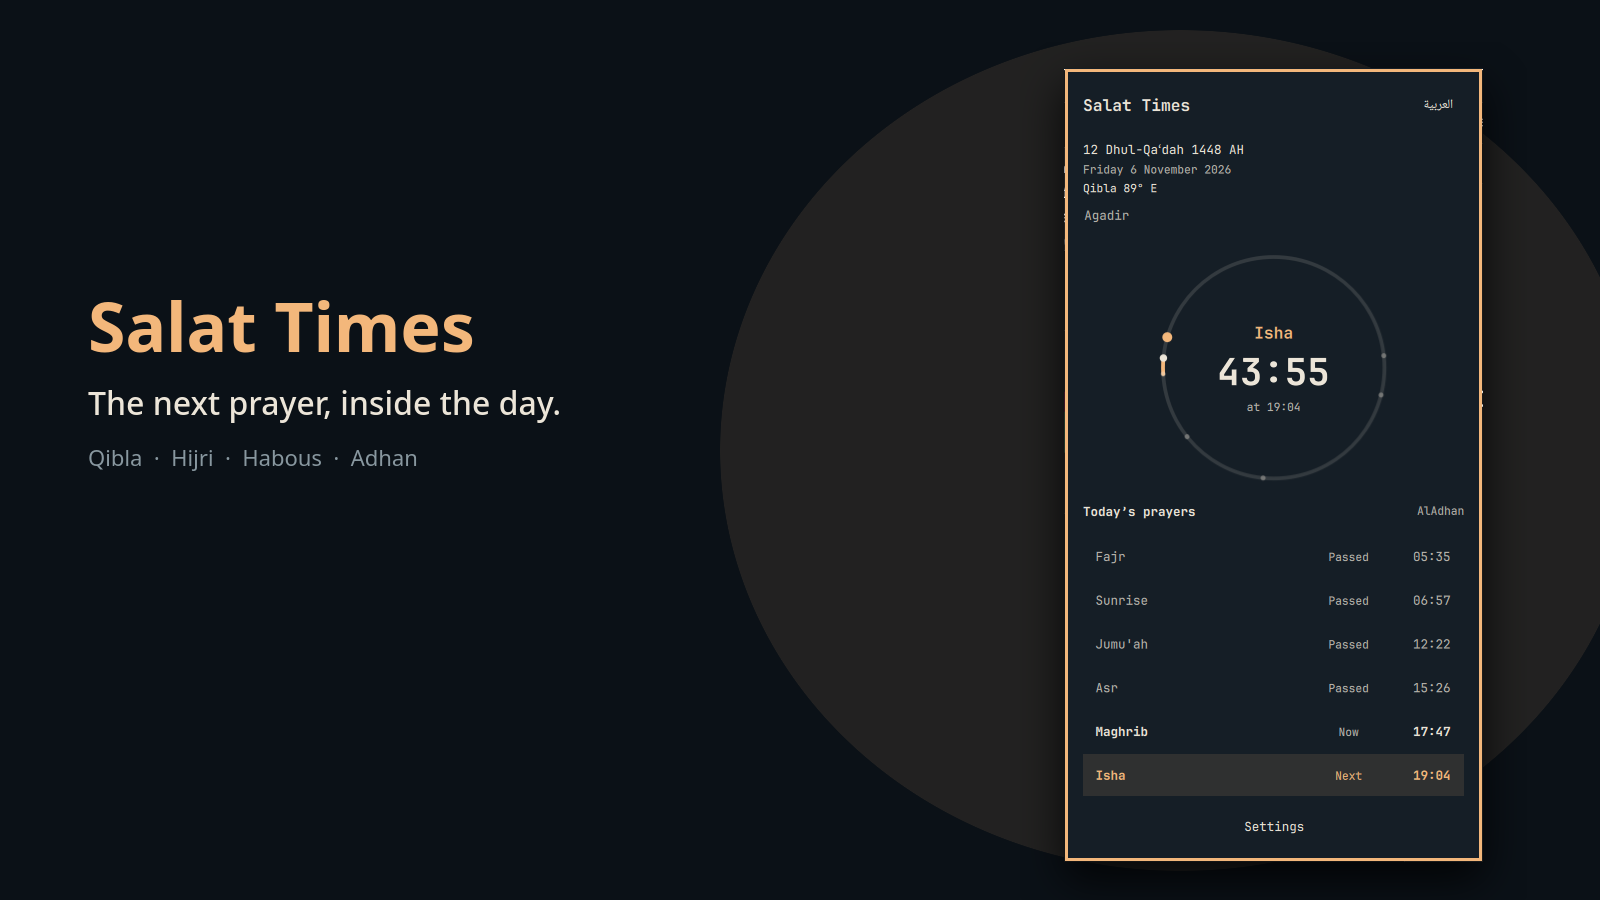
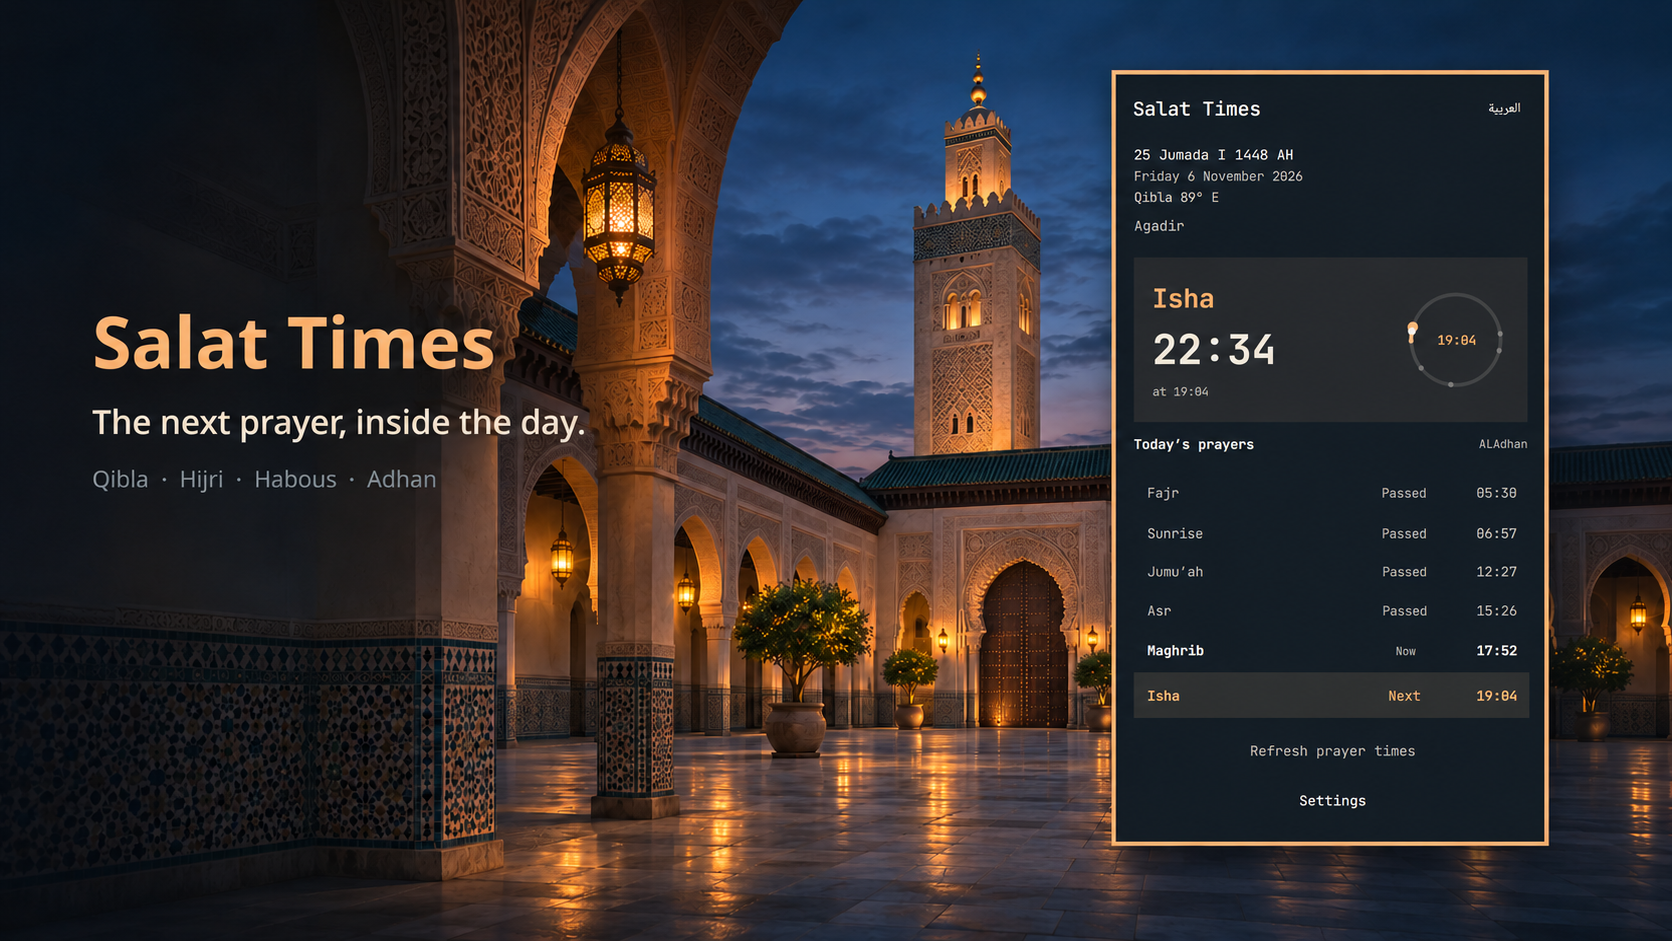
Refresh mosque marketplace artwork and bilingual desktop captures

diff --git a/DESIGN.md b/DESIGN.md
@@ -5,12 +5,17 @@ colors:
   foreground: "bar ? bar.foreground : Color.foreground"
   accent: "Color.accent"
   muted: "Qt.rgba(root.contentForeground.r, root.contentForeground.g, root.contentForeground.b, 0.76)"
+  hero-surface: "Qt.rgba(root.accent.r, root.accent.g, root.accent.b, 0.09)"
   next-surface: "Qt.rgba(root.accent.r, root.accent.g, root.accent.b, 0.12)"
 typography:
   display:
     fontFamily: "bar ? bar.fontFamily : Style.font.family"
-    fontSize: "Style.space(42)"
+    fontSize: "Style.space(38)"
     fontWeight: "Font.DemiBold"
+  prayer-name:
+    fontFamily: "bar ? bar.fontFamily : Style.font.family"
+    fontSize: "Style.space(24)"
+    fontWeight: "Font.Bold"
   heading:
     fontFamily: "bar ? bar.fontFamily : Style.font.family"
     fontSize: "Style.font.heading"
@@ -34,21 +39,26 @@ spacing:
   row: "Style.space(10)"
   section: "Style.space(12)"
   stack: "Style.space(14)"
-  hero-gap: "Style.space(20)"
+  inset: "Style.space(16)"
 components:
+  next-prayer-surface:
+    backgroundColor: "{colors.hero-surface}"
+    rounded: "{rounded.row}"
+    height: "Style.space(154)"
+    padding: "Style.space(16)"
   prayer-row:
     textColor: "{colors.foreground}"
     rounded: "{rounded.row}"
-    height: "Style.space(40)"
+    height: "Style.space(44)"
     padding: "0 Style.space(12)"
   prayer-row-next:
     backgroundColor: "{colors.next-surface}"
     textColor: "{colors.accent}"
     rounded: "{rounded.row}"
-    height: "Style.space(40)"
+    height: "Style.space(44)"
     padding: "0 Style.space(12)"
   day-dial:
-    size: "Style.space(232)"
+    size: "Style.space(104)"
   stepper-value:
     width: "Style.space(36)"
     height: "Style.space(22)"
@@ -58,9 +68,9 @@ components:
 
 ## Overview
 
-**Creative North Star: "The countdown inside the day"**
+**Creative North Star: "The daily prayer instrument"**
 
-A compact native prayer timetable that belongs to the current Omarchy desktop. The remaining time is inscribed in the day ring, and that ring’s arc is only the current prayer window. The theme supplies the font, foreground, surface, and accent.
+A compact native prayer timetable that belongs to the current Omarchy desktop. The next prayer and explicit time remaining lead inside a tonal rectangle; a small adjacent day ring provides context. Its arc represents the current prayer window. The theme supplies the font, foreground, surface, and accent.
 
 **Key Characteristics:**
 
@@ -74,7 +84,7 @@ These tokens are native QML expressions, evaluated by Omarchy/Quickshell. They a
 
 ### Primary
 
-The live accent marks the next prayer name, next row, elapsed day arc, and next dial point. The next-row fill is a translucent accent wash.
+The live accent marks the next prayer name, next row, elapsed day arc, and next dial point. The next-prayer surface uses a quiet accent wash; the timetable’s next row uses a stronger wash that intensifies when prayer is imminent.
 
 ### Neutral
 
@@ -84,7 +94,7 @@ Foreground follows the hosting bar with the Commons fallback. Muted foreground i
 
 ## Typography
 
-Use the hosting bar’s font family with `Style.font.family` as fallback. The countdown uses the display role, horizontally fits, and may shrink to `Style.space(28)`. Heading is bold; the next timetable row and dial time are bold. Standard body weights remain native defaults. Arabic body and small text have the documented minimum sizes; captions retain `Style.font.caption`.
+Use the hosting bar’s font family with `Style.font.family` as fallback. The countdown uses the display role, horizontally fits, and may shrink to `Style.space(22)`. The prayer name, heading, current and next timetable rows, and dial time are bold. The explicit “Time remaining” caption explains the countdown; exact start time sits beneath it. Standard body weights remain native defaults. Arabic body and small text have the documented minimum sizes; captions retain `Style.font.caption`.
 
 `PlainLabel` explicitly uses `Text.PlainText` and disables mirroring. Apply reading alignment to language-bearing labels; preserve unmirrored countdown, dial time, and right-aligned timetable numerals. No custom line height, tracking, or tabular-number feature is defined.
 
@@ -92,7 +102,7 @@ Use the hosting bar’s font family with `Style.font.family` as fallback. The co
 
 `KeyboardPanel` fits a preferred content width of `Style.space(400)` and fits height to the available screen. The column uses stack spacing; overview uses the same rhythm. Header and settings sections use section spacing. Vertical scrolling appears only when content overflows; horizontal scrolling is disabled.
 
-The hero is a centered day ring of `Style.space(232)`. The prayer name, countdown, and exact start sit in the hole. Schedule rows use tight spacing, horizontal section padding, row gaps, a `Style.space(64)` state column, and a fixed `Style.space(56)` time column. Names elide before times. Qibla sits with the date. A Ramadan suhoor or iftar line appears only in that month. Settings replace the overview and retain the header and settings action; they are not a second dashboard.
+The next-prayer surface is a `Style.space(154)` high rounded rectangle. A row with inset spacing places the prayer name, countdown, “Time remaining” caption, and exact start beside a `Style.space(104)` day dial. The hero row deliberately disables mirroring; the dial center shows the exact start. Schedule rows use tight spacing, horizontal section padding, row gaps, a `Style.space(64)` state column, and a fixed `Style.space(56)` time column. Names elide before times. Qibla sits with the date. A Ramadan suhoor or iftar line appears only in that month. A full-width refresh action follows the timetable and any refresh error; its label reports fetching and it is disabled offline or while fetching. Settings replace the overview and retain the header and settings action. Settings use worldwide city search with searching, no-match and connection feedback; a Hijri calendar stepper permits ±2 days. Persistent latitude and longitude labels sit over equal-width unmirrored fields, followed by a validated Apply coordinates action that works offline and a desktop-timezone note.
 
 ## Elevation & Depth
 
@@ -104,7 +114,8 @@ Timetable highlights follow `Style.cornerRadius`. The day dial is a true circle:
 
 ## Components
 
-- **Prayer rows:** six aligned timetable entries; next is identified by accent, bold name/time, tonal fill, and a localized “Next” label. The source label remains visible beside the schedule heading.
+- **Prayer rows:** six aligned timetable entries; current and next use bold name/time; next additionally uses accent and tonal fill. A fixed state column shows the model’s localized status label. Passed rows use muted text. The next fill changes from alpha 0.12 to 0.22 when imminent. The source label remains visible beside the schedule heading.
+- **Next-prayer surface:** flat accent wash, native rounded corners, large countdown with horizontal fit and explicit caption. It carries the primary answer without waiting for motion.
 - **DayDial:** actual 24-hour positions, clockwise from midnight at the top. Center shows the next start time; elapsed arc follows the current prayer window. Repaint only on data, size, or theme changes; no animation timer.
 - **Native controls:** language and settings use `Ui.Button`; settings reuse `Toggle`, `SearchableDropdown`, `Dropdown`, `ButtonGroup`, `TextField`, and `PanelSectionHeader` from `qs.Ui`. Preserve shared interaction styling and focus behavior. Opening settings focuses its first toggle; closing restores panel keyboard focus.
 - **StepperRow:** two focusable `PanelActionButton` controls surround a centered bold body-size value; inline spacing. Positive correction displays an explicit plus sign.

diff --git a/artwork/README.md b/artwork/README.md
@@ -1,0 +1,11 @@
+# Marketplace artwork
+
+The cover is generated using the built-in OpenAI ImageGen tool, then reviewed against actual plugin screenshots. The architectural background is an AI-generated Moroccan mosque courtyard, not a photograph of a named mosque. The English and Arabic preview PNGs at the project root are direct captures of the installed Omarchy plugin, cropped to its panel.
+
+## Initial prompt
+
+Use case: compositing. Edit target: the supplied Salat Times marketplace thumbnail. Preserve its 1600x900 landscape composition, exact title and supporting copy on the left, and readable plugin screenshot on the right. Change only the plain dark background and large flat circle into a magnificent photographic Moroccan mosque courtyard at blue hour, authentic carved arches and one elegant minaret, warm amber lantern light and subtle reflections on stone, deep charcoal navy atmosphere. Keep background subdued and dark beneath all copy so the existing warm peach title and cream text remain exceptionally legible. Sophisticated editorial architectural photography, realistic materials, restrained cinematic lighting, no extra text, no invented logos, no people, no watermark. The existing screenshot is a reference and must retain crisp text, proportions and rectangular edges.
+
+## Final prompt
+
+Use case: compositing. Final marketplace cover for Salat Times. Image 1 is the edit target: preserve exactly its magnificent Moroccan mosque blue-hour courtyard background, warm lantern lighting, carved arches, minaret, left-side title 'Salat Times', subtitle 'The next prayer, inside the day.' and feature line 'Qibla · Hijri · Habous · Adhan'. Image 2 is the CURRENT REAL PLUGIN SCREENSHOT, to replace the obsolete screenshot panel on the right in image 1. Insert image 2 as an exact, crisp, flat rectangular screenshot with its peach border intact: preserve all text, the corrected date '25 Jumada I 1448 AH', new compact countdown-and-small-dial composition, all prayer rows, refresh action and Settings. Do not redraw or invent screenshot content. Fit screenshot fully vertically with comfortable margins, aligned near the right edge like image 1. Keep title left large, mosque center visible. Landscape 16:9 composition. This is a refined architectural editorial product thumbnail, readable at small size. No extra text or watermark.

diff --git a/.impeccable/salat-surface.md b/.impeccable/salat-surface.md
@@ -3,6 +3,6 @@
 THESIS: Today’s prayer timetable, readable at a glance, with an actual 24-hour orbit as its signature; no glowing clock ornament.
 OWN-WORLD: Follow the user-selected Omarchy font, foreground, surface and accent. Flat tone-separated surfaces, aligned numerals, compact native controls.
 STORY: Identify next prayer, time remaining, exact start, today’s six times, and active data source; open settings only when needed.
-FIRST VIEWPORT: 400 logical pixel panel. Product and language in the header, dates, qibla, and location below, a 232px day ring centered with the countdown inside it, schedule below, settings action at the bottom. No initial reveal hiding data.
-FORM: User-pinned theme-following direction overrides free palette selection. Candidate 4, daily timetable; seed:e6509a9a749aacf9. Taste style true-black-flat seed 870425648, palette and type retained from Omarchy; native compact panel replaces dashboard shell because no sidebar destinations exist.
+FIRST VIEWPORT: 400 logical pixel panel. Product and language header, dates, qibla and location. A 154px accent-tinted next-prayer surface leads with a 38px countdown and a 104px day dial beside it. Six 44px timetable rows, source label, refresh and settings actions. Settings offer global search, Hijri adjustment and offline coordinates with native controls.
+FORM: Theme-bound daily timetable, redesigned with the user’s explicit stronger-identity choice. Code-led native Operate surface; seed:768327f5ec0acea6. Native affordances and accurate time information govern composition.
 FINISH: unreviewed and undocumented is unfinished; this build ends with the finish review, the verdict, DESIGN.md, and every shipping raster carrying its provenance
